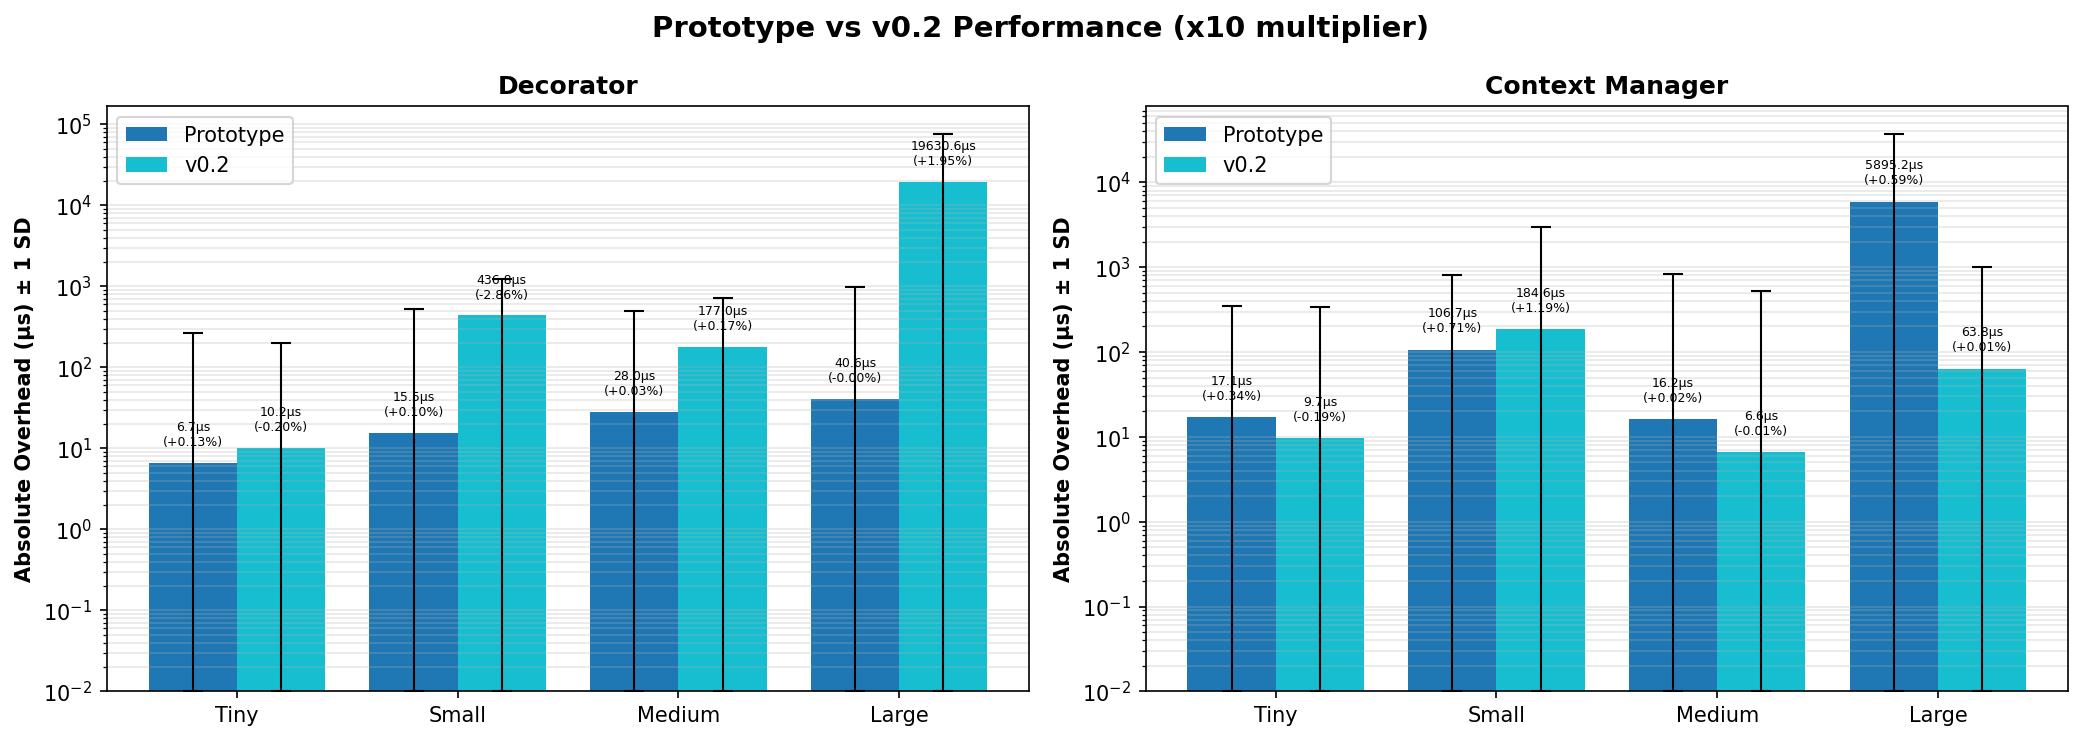
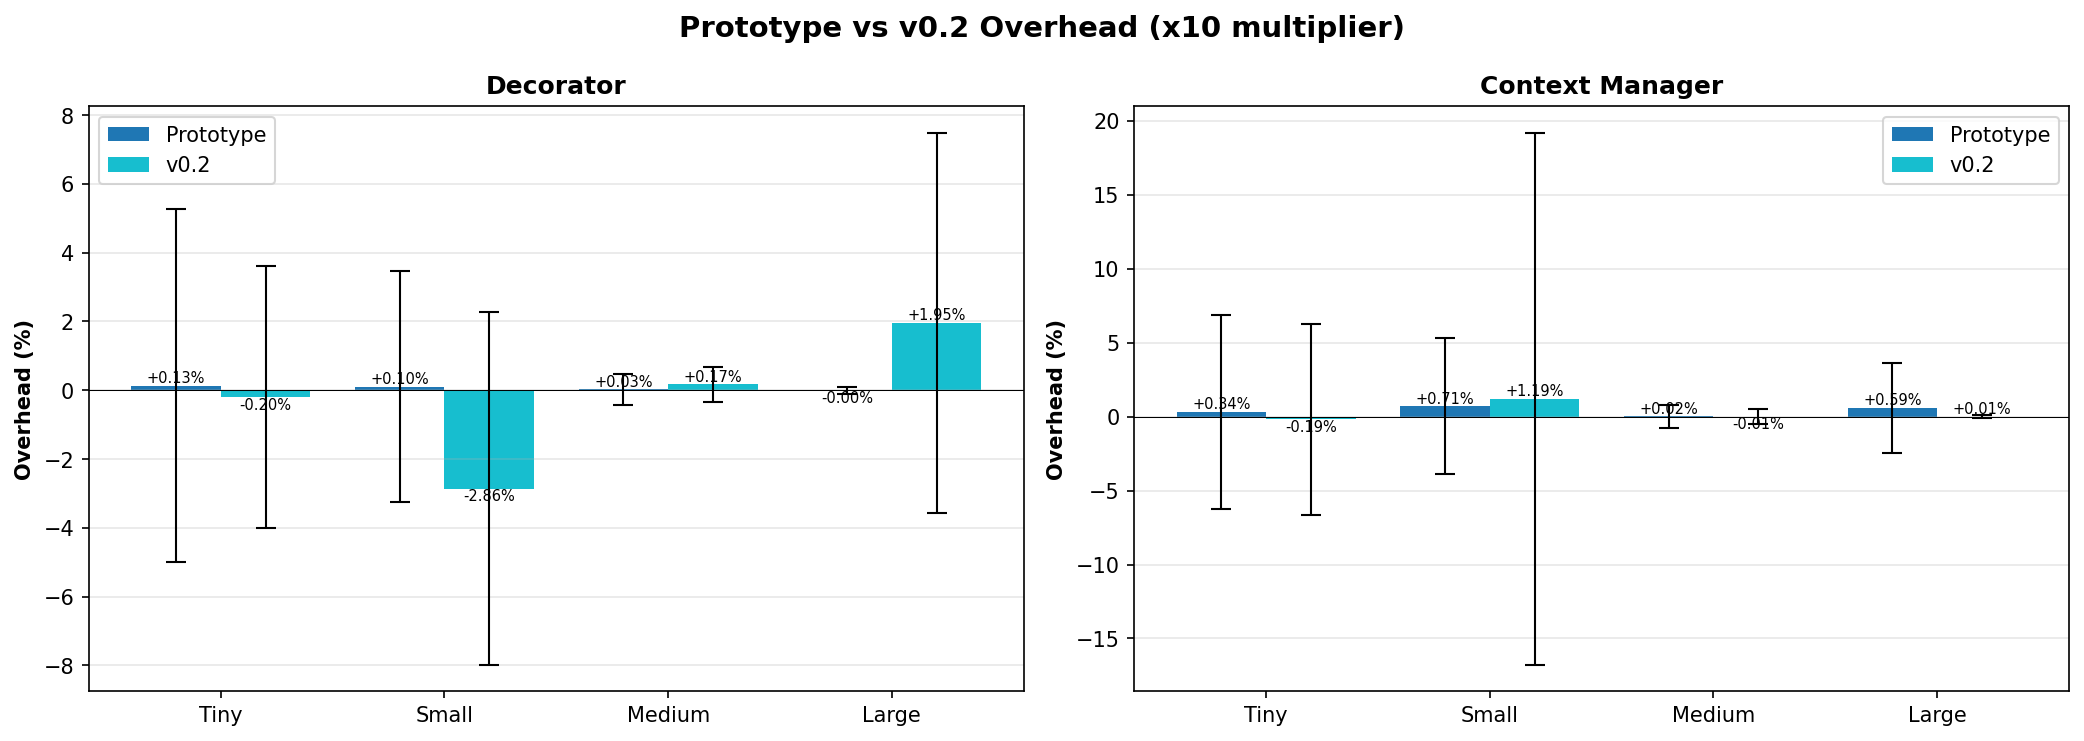
docs(graphs): switch to linear scale overhead percents
This was actually the default before.
Went back to showing how much overhead can one expect from using Stichortrope on their code execution from profiling different workloads (with 10/100 repetition averages)

diff --git a/benchmarks/reports/analysis_performance_benchmarking/02-prototype_comparison_v1.md b/benchmarks/reports/analysis_performance_benchmarking/02-prototype_comparison_v1.md
@@ -1,6 +1,6 @@
 # Performance Comparison: Prototype vs v0.2
 
-**Date**: 2025-11-16  
+**Date**: 2025-11-18  
 **Prototype**: benchmarks\data\prototype  
 **v0.2**: benchmarks\data\v0.2.0  
 
